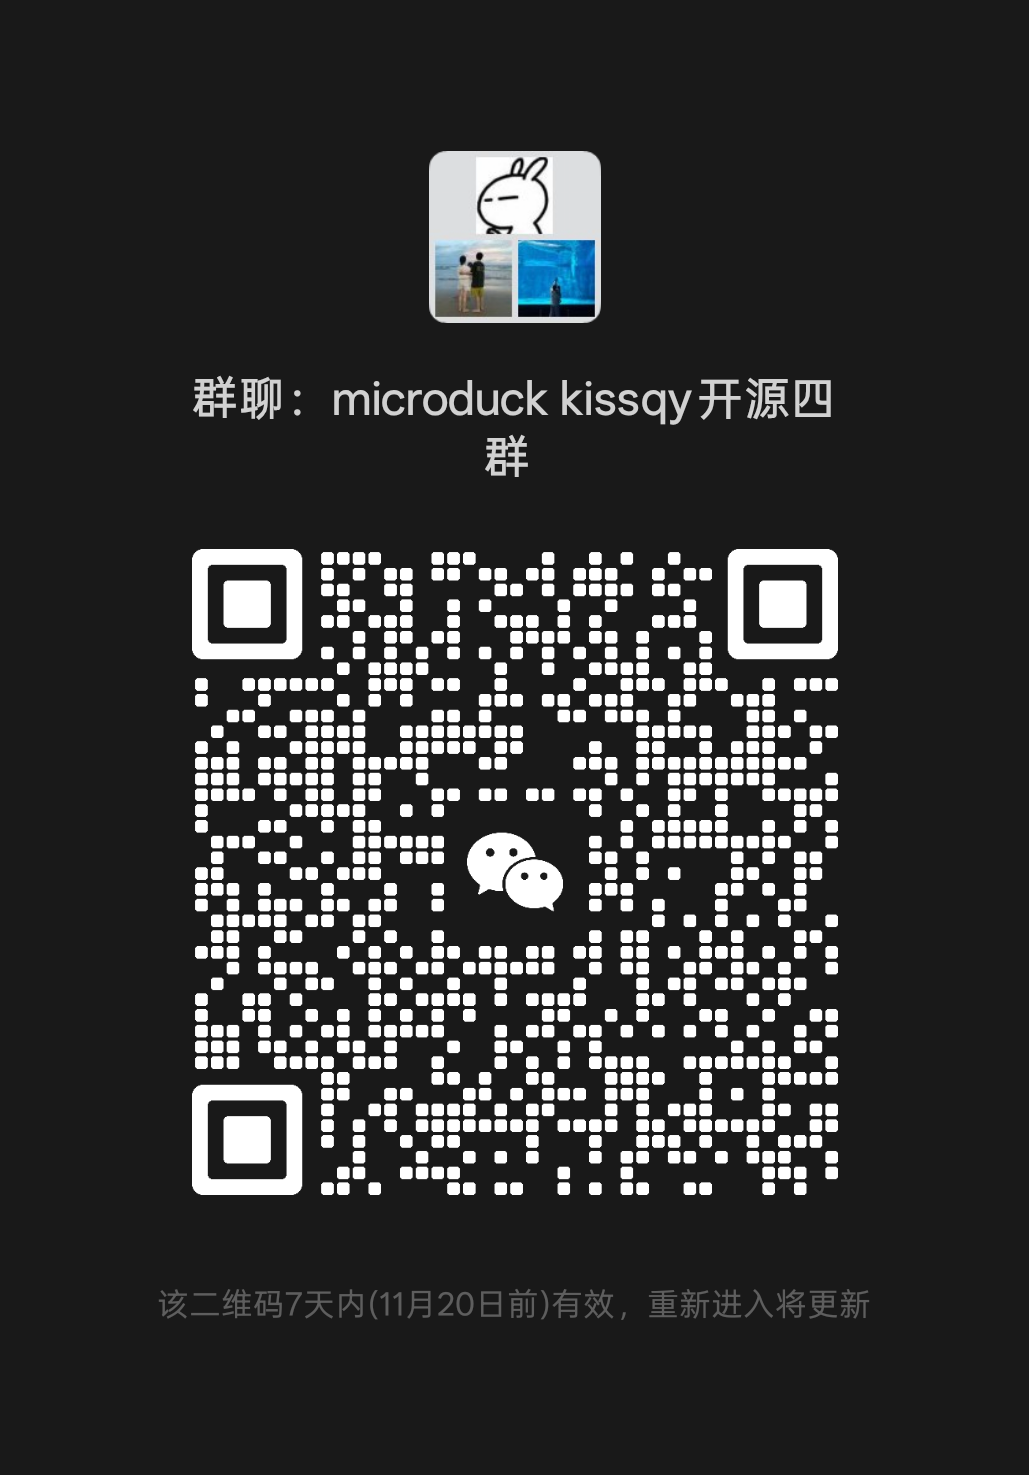
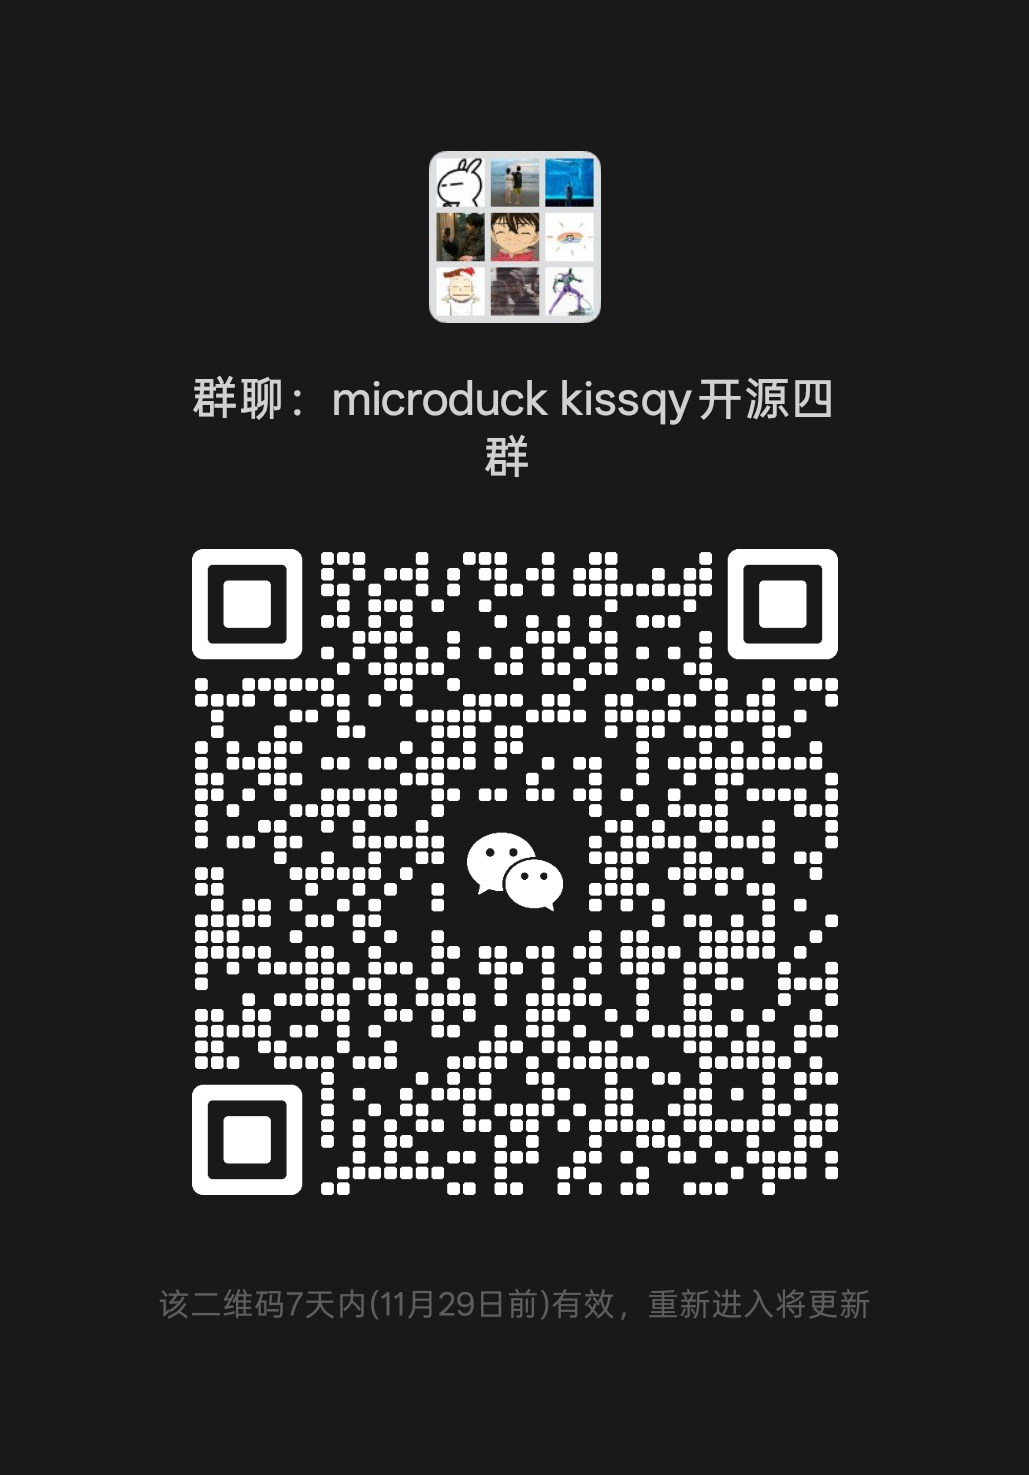
docs: refresh WeChat Group 4 QR code valid before November 29

diff --git a/docs/build/index.html b/docs/build/index.html
@@ -10,4 +10,4 @@
 <div class="project-notice__heading"><svg class="project-notice__icon" viewBox="0 0 24 24" fill="none" aria-hidden="true"><path d="M12 3 2 21h20L12 3Z" stroke="currentColor" stroke-width="1.7" stroke-linejoin="round"/><path d="M12 9v5m0 3v.1" stroke="currentColor" stroke-width="2" stroke-linecap="round"/></svg><h2 class="project-notice__title" id="project-notice-title">硬件与授权</h2></div>
 <p>仅适配本仓库开源版本的 <strong>HAT、IMU、HUB</strong>。本仓库未授权任何商业组织。</p>
 <div class="project-notice__footer"><a href="https://github.com/kissqy/Microduck-kissqy/blob/main/docs/assets/purchase-wechat-qr.jpg">商业授权请联系作者</a><a href="https://github.com/kissqy/Microduck-kissqy/blob/main/LICENSE">查看分项许可</a></div>
-</aside><section class="page-head"><p class="eyebrow">MICRODUCK · kissqy / BUILD</p><div class="head-line"><div><h1>Microduck 飞特版，三步完成复刻。</h1><p class="lead">kissqy 的 Microduck 双足机器人鸭复刻：基于官方 Microduck 0.15.1，采用 Radxa ZERO 3W、15 个飞特 HD1910 舵机和自制 HAT／IMU／HUB。① 预算采购 → ② 装配接线 → ③ 刷机、标定与行走，使用配套现成 ONNX 动作模型。</p></div><span class="badge">正常复刻无需训练</span></div></section><div class="route-grid"><a class="route-card" href="budget.html"><b>01</b><h2>我要花多少钱、买什么？</h2><p>先选方案看总额，再按采购清单备齐零件。</p><span>进入这一步 →</span></a><a class="route-card" href="assembly.html"><b>02</b><h2>我要怎么装？</h2><p>跟着部位和步骤，装好结构与接线。</p><span>进入这一步 →</span></a><a class="route-card" href="start.html"><b>03</b><h2>我要让鸭子走起来</h2><p>使用现成模型，完成刷机、标定与行走。</p><span>进入这一步 →</span></a><a class="route-card" href="advanced.html"><b>04 · 可选</b><h2>进阶玩法 · 可选</h2><p>正常复刻无需训练；想自训新动作或学习训练流程时再进入。</p><span>了解进阶玩法 →</span></a></div><section class="panel"><h2>已经做了一部分？从当前进度继续</h2><div class="pill-row"><a href="shopping.html">准备采购</a><a href="assembly.html">零件已买齐</a><a href="start.html#flash">结构已经装好</a><a href="start.html#network">已刷好镜像</a><a href="start.html#calibration">已连接中控</a></div></section><a href="../one-leg-balance.html"><img class="feature-photo" src="../assets/community-one-leg-banner.webp?v=20261113-group4" alt="Microduck 实机与单脚独立成果，点击观看视频" width="1586" height="992"></a><section class="panel"><h2>这条路线会用到什么</h2><div class="complete-grid"><div><strong>完整制作资料</strong><p>飞特 HD1910 材料清单、STL／3MF 打印文件、自制 HAT／IMU／HUB 电路工程，以及实拍与 3D 装配接线参考。</p></div><div><strong>中文机器人中控</strong><p>ZERO 3W 刷机配网、舵机与 IMU 标定、实时 3D 姿态、IMX219 摄像头与 WebRTC、手柄控制和固件维护。</p></div><div><strong>配套现成模型</strong><p>行走、坐下站起、捡取、踢球、前滚翻与滑轮动作；另有作者自训单脚平衡实机视频。普通复刻无需训练。</p></div></div></section><footer class="site-footer"><div>Microduck 飞特版 · kissqy<br>使用配套现成动作模型，日常操作使用机器人中控。</div><div><a href="https://github.com/kissqy/Microduck-kissqy/blob/main/docs/MICRODUCK-FAQ.md">常见问题</a> · <a href="https://github.com/kissqy/Microduck-kissqy/blob/main/docs/assets/purchase-wechat-qr.jpg">联系作者</a> · <a href="https://github.com/kissqy/Microduck-kissqy/blob/main/LICENSE">分项许可</a></div></footer></main><script type="module" src="build.js?v=20261120-banana"></script></body></html>
+</aside><section class="page-head"><p class="eyebrow">MICRODUCK · kissqy / BUILD</p><div class="head-line"><div><h1>Microduck 飞特版，三步完成复刻。</h1><p class="lead">kissqy 的 Microduck 双足机器人鸭复刻：基于官方 Microduck 0.15.1，采用 Radxa ZERO 3W、15 个飞特 HD1910 舵机和自制 HAT／IMU／HUB。① 预算采购 → ② 装配接线 → ③ 刷机、标定与行走，使用配套现成 ONNX 动作模型。</p></div><span class="badge">正常复刻无需训练</span></div></section><div class="route-grid"><a class="route-card" href="budget.html"><b>01</b><h2>我要花多少钱、买什么？</h2><p>先选方案看总额，再按采购清单备齐零件。</p><span>进入这一步 →</span></a><a class="route-card" href="assembly.html"><b>02</b><h2>我要怎么装？</h2><p>跟着部位和步骤，装好结构与接线。</p><span>进入这一步 →</span></a><a class="route-card" href="start.html"><b>03</b><h2>我要让鸭子走起来</h2><p>使用现成模型，完成刷机、标定与行走。</p><span>进入这一步 →</span></a><a class="route-card" href="advanced.html"><b>04 · 可选</b><h2>进阶玩法 · 可选</h2><p>正常复刻无需训练；想自训新动作或学习训练流程时再进入。</p><span>了解进阶玩法 →</span></a></div><section class="panel"><h2>已经做了一部分？从当前进度继续</h2><div class="pill-row"><a href="shopping.html">准备采购</a><a href="assembly.html">零件已买齐</a><a href="start.html#flash">结构已经装好</a><a href="start.html#network">已刷好镜像</a><a href="start.html#calibration">已连接中控</a></div></section><section class="panel" id="wechat-community"><h2>微信交流群 · microduck kissqy 开源四群</h2><a href="../assets/community-wechat-qr.png?v=20261122" target="_blank" rel="noopener"><img src="../assets/community-wechat-qr.png?v=20261122" width="260" alt="开源四群加群二维码，2026年11月29日前有效" style="display:block;max-width:100%;height:auto;margin:16px auto"></a><p class="small">四群二维码在 2026 年 11 月 29 日前有效，点击图片可放大，微信扫码加群。</p><a href="../one-leg-balance.html">查看单脚独立实机视频 →</a></section><section class="panel"><h2>这条路线会用到什么</h2><div class="complete-grid"><div><strong>完整制作资料</strong><p>飞特 HD1910 材料清单、STL／3MF 打印文件、自制 HAT／IMU／HUB 电路工程，以及实拍与 3D 装配接线参考。</p></div><div><strong>中文机器人中控</strong><p>ZERO 3W 刷机配网、舵机与 IMU 标定、实时 3D 姿态、IMX219 摄像头与 WebRTC、手柄控制和固件维护。</p></div><div><strong>配套现成模型</strong><p>行走、坐下站起、捡取、踢球、前滚翻与滑轮动作；另有作者自训单脚平衡实机视频。普通复刻无需训练。</p></div></div></section><footer class="site-footer"><div>Microduck 飞特版 · kissqy<br>使用配套现成动作模型，日常操作使用机器人中控。</div><div><a href="https://github.com/kissqy/Microduck-kissqy/blob/main/docs/MICRODUCK-FAQ.md">常见问题</a> · <a href="https://github.com/kissqy/Microduck-kissqy/blob/main/docs/assets/purchase-wechat-qr.jpg">联系作者</a> · <a href="https://github.com/kissqy/Microduck-kissqy/blob/main/LICENSE">分项许可</a></div></footer></main><script type="module" src="build.js?v=20261120-banana"></script></body></html>

diff --git a/scripts/render-build-guides.py b/scripts/render-build-guides.py
@@ -90,7 +90,7 @@ def head(number,title,lead,badge=''):
 
 cards=''.join(f'<a class="route-card" href="{f}"><b>{i+1:02}'+(' · 可选' if i==3 else '')+f'</b><h2>{title}</h2><p>{desc}</p><span>'+('了解进阶玩法 →' if i==3 else '进入这一步 →')+'</span></a>' for i,(f,_,title,desc) in enumerate(ROUTES))
 overview=head('MICRODUCK · kissqy / BUILD','三步，让鸭子走起来。','① 预算与采购 → ② 装配与接线 → ③ 刷机、标定与行走。项目提供系统镜像、中文机器人中控与现成动作模型；第④项为可选进阶。','正常复刻无需训练')+f'<div class="route-grid">{cards}</div>'
-overview+='''<section class="panel"><h2>已经做了一部分？从当前进度继续</h2><div class="pill-row"><a href="shopping.html">准备采购</a><a href="assembly.html">零件已买齐</a><a href="start.html#flash">结构已经装好</a><a href="start.html#network">已刷好镜像</a><a href="start.html#calibration">已连接中控</a></div></section><a href="../one-leg-balance.html"><img class="feature-photo" src="../assets/community-one-leg-banner.webp?v=20261113-group4" alt="Microduck 实机与单脚独立成果，点击观看视频" width="1586" height="992"></a><section class="panel"><h2>这条路线会用到什么</h2><div class="complete-grid"><div><strong>完整制作资料</strong><p>采购链接、打印文件、板卡说明和装配参考。</p></div><div><strong>中文机器人中控</strong><p>连接、标定、观察反馈、操作与维护。</p></div><div><strong>配套现成模型</strong><p>先体验行走和已有动作，再探索更多玩法。</p></div></div></section>'''
+overview+='''<section class="panel"><h2>已经做了一部分？从当前进度继续</h2><div class="pill-row"><a href="shopping.html">准备采购</a><a href="assembly.html">零件已买齐</a><a href="start.html#flash">结构已经装好</a><a href="start.html#network">已刷好镜像</a><a href="start.html#calibration">已连接中控</a></div></section><section class="panel" id="wechat-community"><h2>微信交流群 · microduck kissqy 开源四群</h2><a href="../assets/community-wechat-qr.png?v=20261122" target="_blank" rel="noopener"><img src="../assets/community-wechat-qr.png?v=20261122" width="260" alt="开源四群加群二维码，2026年11月29日前有效" style="display:block;max-width:100%;height:auto;margin:16px auto"></a><p class="small">四群二维码在 2026 年 11 月 29 日前有效，点击图片可放大，微信扫码加群。</p><a href="../one-leg-balance.html">查看单脚独立实机视频 →</a></section><section class="panel"><h2>这条路线会用到什么</h2><div class="complete-grid"><div><strong>完整制作资料</strong><p>采购链接、打印文件、板卡说明和装配参考。</p></div><div><strong>中文机器人中控</strong><p>连接、标定、观察反馈、操作与维护。</p></div><div><strong>配套现成模型</strong><p>先体验行走和已有动作，再探索更多玩法。</p></div></div></section>'''
 (OUT/'index.html').write_text(shell('index.html','从零复刻路线','Microduck 从预算、采购、装配到第一次行走，使用配套现成模型，无须自己训练。',overview))
 
 def plan(identifier,title,total,extra,desc,target,featured=False):

diff --git a/README.en.md b/README.en.md
@@ -26,9 +26,9 @@ Radxa ZERO 3W · 15 × Feetech HD1910 · Matching HAT / IMU / HUB
 
 The author’s self-trained one-legged balance has been demonstrated on a physical HD1910 robot. The video below shows the real robot; build, calibration and training references are available in this repository.
 
-<a href="https://kissqy.github.io/Microduck-kissqy/one-leg-balance.html?v=20261119-gallery"><img width="900" alt="Microduck one-legged balance video and WeChat community QR code — click to watch, scan to join" src="docs/assets/community-one-leg-banner.webp?v=20261113-group4" /></a>
+<table><tr><td align="center"><strong>WeChat community · Group 4</strong><br><a href="docs/assets/community-wechat-qr.png?v=20261122"><img src="docs/assets/community-wechat-qr.png?v=20261122" width="260" alt="microduck kissqy open-source WeChat Group 4 QR code, valid before November 29, 2026" /></a></td><td><strong>Real-robot one-legged balance</strong><br><a href="https://kissqy.github.io/Microduck-kissqy/one-leg-balance.html?v=20261119-gallery">Watch the real-robot video →</a><br>Scan the QR code to join the community.</td></tr></table>
 
-<sub>The Group 4 QR code is valid before November 20, 2026.</sub>
+<sub>The Group 4 QR code is valid before November 29, 2026.</sub>
 
 ### 🎬 More real-robot videos
 

diff --git a/README.md b/README.md
@@ -26,9 +26,9 @@ Radxa ZERO 3W · 15 × 飞特 HD1910 · 配套 HAT / IMU / HUB
 
 作者自训的单脚平衡动作已在飞特 HD1910 实机上演示。下方视频展示真实机器人表现；训练、装配和标定资料均可从本仓库继续查阅。
 
-<a href="https://kissqy.github.io/Microduck-kissqy/one-leg-balance.html?v=20261119-gallery"><img width="900" alt="Microduck 单脚独立实机视频与微信交流群，点击图片观看视频，扫码加群交流" src="docs/assets/community-one-leg-banner.webp?v=20261113-group4" /></a>
+<table><tr><td align="center"><strong>微信交流群 · 开源四群</strong><br><a href="docs/assets/community-wechat-qr.png?v=20261122"><img src="docs/assets/community-wechat-qr.png?v=20261122" width="260" alt="microduck kissqy开源四群加群二维码，2026年11月29日前有效" /></a></td><td><strong>单脚独立 · 自训实机展示</strong><br><a href="https://kissqy.github.io/Microduck-kissqy/one-leg-balance.html?v=20261119-gallery">查看单脚独立实机视频 →</a><br>微信扫码加入开源四群，交流复刻、装配与使用。</td></tr></table>
 
-<sub>四群二维码在 2026 年 11 月 20 日前有效。</sub>
+<sub>四群二维码在 2026 年 11 月 29 日前有效。</sub>
 
 ### 🎬 更多实机视频
 
